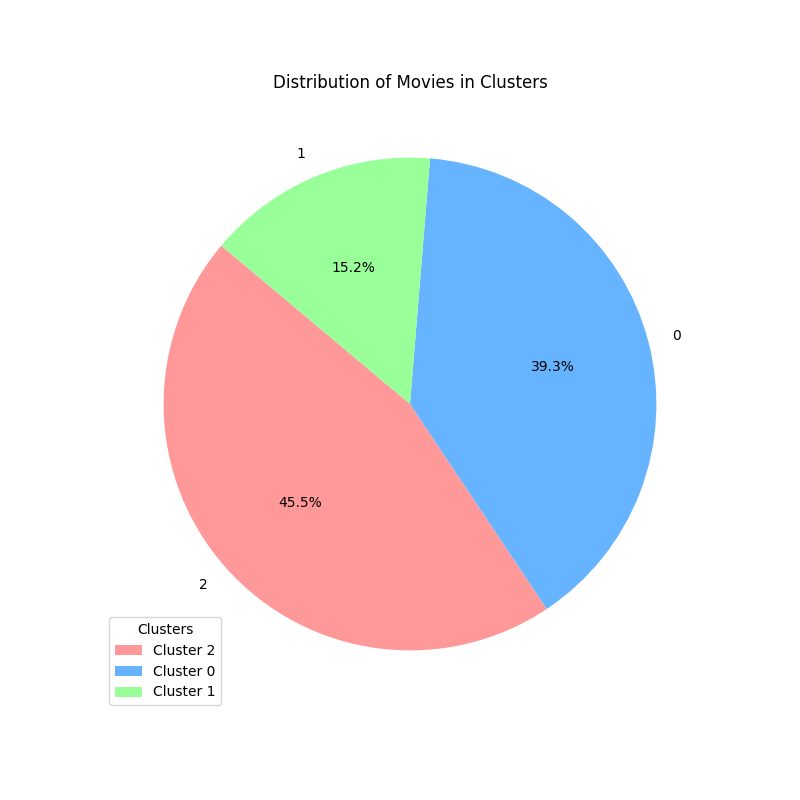
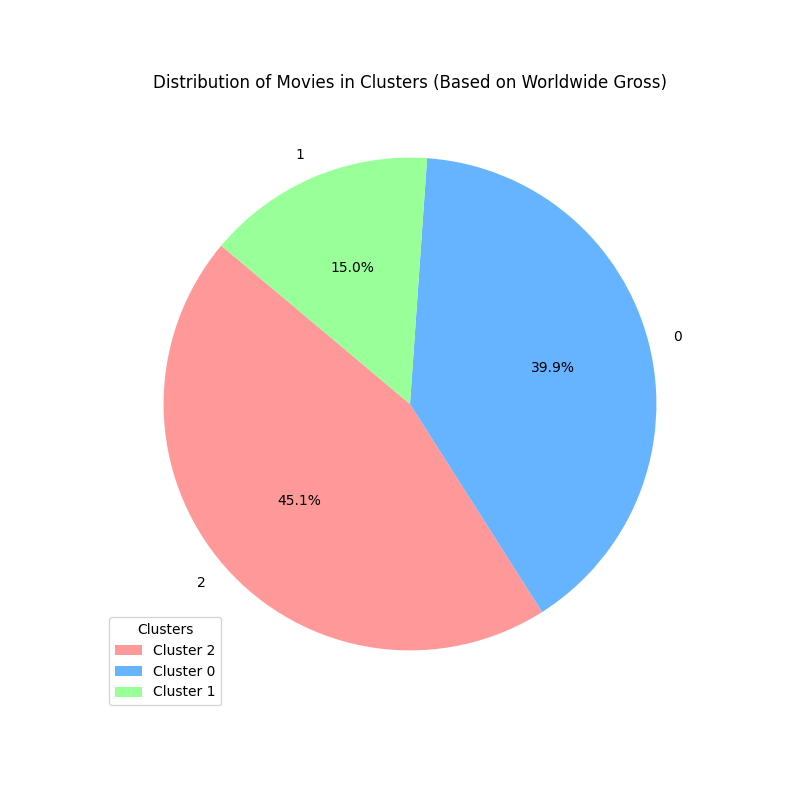
Aggiunta prima bozza dell'oversampling

diff --git a/src/supervised_learning.py b/src/supervised_learning.py
@@ -1,8 +1,8 @@
 import csv
-from matplotlib import pyplot as plt
 import numpy as np
 import pandas as pd
 
+from matplotlib import pyplot as plt
 from lightgbm import LGBMRegressor
 from xgboost import XGBRegressor
 from sklearn.discriminant_analysis import StandardScaler
@@ -11,6 +11,8 @@ from sklearn.pipeline import Pipeline
 from sklearn.tree import DecisionTreeRegressor
 from sklearn.ensemble import RandomForestRegressor
 from sklearn.metrics import make_scorer, mean_squared_error, mean_absolute_error, mean_squared_log_error, r2_score
+
+from oversampling import random_oversampling, smote_oversampling
 
 
 # Load the dataset
@@ -34,7 +36,7 @@ with open('../resources/dataset/Movie_dataset_features.csv', mode='r', encoding=
 # Define the cross-validation strategy and the scorer
 cv = RepeatedKFold(n_splits=3, n_repeats=2, random_state=seed)
 
-def plot_learning_curves(regressionModel, X, y, regressionModelName, logFile):
+def plot_learning_curves(regressionModel, X, y, regressionModelName, logFile, oversamplingName=""):
     # Calculate the learning curve for the given regression model
     train_sizes, train_scores, test_scores = learning_curve(
         regressionModel, 
@@ -80,14 +82,19 @@ def plot_learning_curves(regressionModel, X, y, regressionModelName, logFile):
     plt.xlabel('Training examples')
     plt.ylabel('Mean Error')
     plt.legend(loc='best')
-    plt.title(regressionModelName + ' Learning Curves')
-    plt.savefig('../resources/plots/learning_curves/learning_curve_' + regressionModelName + '.png')
+    plt.title(regressionModelName + oversamplingName + ' Learning Curves')
+    plt.savefig('../resources/plots/learning_curves/learning_curve_' + regressionModelName + oversamplingName + '.png')
 
 
-def train_and_test_model(regressionModel, hyperParameters, regressionModelName, seed=42):
-    with open('../resources/logs/'+ regressionModelName + "_log.txt", mode='w', encoding='utf-8-sig') as logFile:
+def train_and_test_model(regressionModel, hyperParameters, regressionModelName, seed, oversampling_method=None, oversamplingName=""):
+    with open('../resources/logs/log_'+ regressionModelName + oversamplingName + ".txt", mode='w', encoding='utf-8-sig') as logFile:
         X_train, X_test, y_train, y_test = train_test_split(X, y, test_size=0.2, random_state=seed)
         
+        # Apply the oversampling technique if it is provided
+        if oversampling_method:
+            df_train_resampled = oversampling_method(df, target='Log_Worldwide_Gross')
+            X_train = df_train_resampled.drop('Log_Worldwide_Gross', axis=1)
+            y_train = df_train_resampled['Log_Worldwide_Gross']
 
         # Perform the grid search to find the best 
         # hyperparameters of the regression model
@@ -129,7 +136,7 @@ def train_and_test_model(regressionModel, hyperParameters, regressionModelName, 
                 logFile.write("{:<10}{:<25}{:<25}{:<25}\n".format(metric_name, str(mean), str(var), str(std)))
 
         # Plot the learning curve
-        plot_learning_curves(clf, X, y, regressionModelName, logFile)
+        plot_learning_curves(clf, X, y, regressionModelName, logFile, oversamplingName)
 
 
 DecisionTreeHyperparameters = {
@@ -176,7 +183,32 @@ XGBRegressorHyperparameters = {
     'XGBRegressor__random_state': [seed]
 }
 
-train_and_test_model(DecisionTreeRegressor(), DecisionTreeHyperparameters, 'DecisionTree', seed)
-train_and_test_model(RandomForestRegressor(), RandomForestHyperparameters, 'RandomForest', seed)
-train_and_test_model(LGBMRegressor(), LGBMRegressorHyperparameters, 'LGBMRegressor', seed)
-train_and_test_model(XGBRegressor(), XGBRegressorHyperparameters, 'XGBRegressor', seed)
+models_and_hyperparameters = [
+    (DecisionTreeRegressor(), DecisionTreeHyperparameters, 'DecisionTree'),
+    (RandomForestRegressor(), RandomForestHyperparameters, 'RandomForest'),
+    (LGBMRegressor(), LGBMRegressorHyperparameters, 'LGBMRegressor'),
+    (XGBRegressor(), XGBRegressorHyperparameters, 'XGBRegressor')
+]
+
+# Iteration over models without oversampling
+for regressionModel, hyperParameters, regressionModelName in models_and_hyperparameters:
+    train_and_test_model(
+        regressionModel, hyperParameters, 
+        regressionModelName, seed
+    )
+
+# # Iteration over models with random oversampling
+for regressionModel, hyperParameters, regressionModelName in models_and_hyperparameters:
+    train_and_test_model(
+        regressionModel, hyperParameters, regressionModelName, 
+        seed, oversampling_method=random_oversampling, 
+        oversamplingName="_RandomOverSampler"
+    )
+
+# Iteration over models with SMOTE oversampling
+for regressionModel, hyperParameters, regressionModelName in models_and_hyperparameters:
+    train_and_test_model(
+        regressionModel, hyperParameters, regressionModelName, 
+        seed, oversampling_method=smote_oversampling, 
+        oversamplingName="_SMOTE"
+    )

diff --git a/src/features_engineering.py b/src/features_engineering.py
@@ -25,9 +25,11 @@ numeric_columns = [
 for column in numeric_columns:
     df[column] = pd.to_numeric(df[column], errors='coerce')
 
+
 # Transformations on Year (using decade and recent flag)
 df['Decade'] = (df['Year'] // 10) * 10
 df['Recent'] = df['Year'] >= 2010
+
 
 # Transformations on MPAA (categorical feature)
 ratings = [
@@ -38,6 +40,7 @@ ratings = [
 for rating in ratings:
     df[rating] = (df['MPAA'] == rating).astype(int)
 
+
 # Transformations on Runtime (using bins)
 bins = [0, 90, 120, np.inf]
 labels = ['<90', '90-120', '>120']
@@ -45,6 +48,7 @@ df['Runtime_Binned'] = pd.cut(df['Runtime'], bins=bins, labels=labels)
 
 ordinal_mapping = {'<90': 0, '90-120': 1, '>120': 2}
 df['Runtime_Encoded'] = df['Runtime_Binned'].map(ordinal_mapping)
+
 
 # Transformations on Company, Director, Writer, Main Actor
 top_companies = df['Company'].value_counts().nlargest(20).index
@@ -57,6 +61,7 @@ df['Top_Director'] = df['Director'].isin(top_directors).astype(int)
 df['Top_Writer'] = df['Writer'].isin(top_writers).astype(int)
 df['Top_Main_Actor'] = df['Main Actor'].isin(top_actors).astype(int)
 
+
 # Transformations on Budget (using standardization)
 scaler = StandardScaler()
 df['Standardized_Budget'] = scaler.fit_transform(df[['Budget']])
@@ -64,6 +69,7 @@ df['Standardized_Budget'] = scaler.fit_transform(df[['Budget']])
 # Apply Min-Max Scaling to Standardized_Budget to avoid negative values
 min_max_scaler = MinMaxScaler()
 df['Scaled_Standardized_Budget'] = min_max_scaler.fit_transform(df[['Standardized_Budget']])
+
 
 # Transformations on Genre (categorical feature)
 genres = [
@@ -75,8 +81,14 @@ genres = [
 for genre in genres:
     df[genre] = (df['Genre'] == genre).astype(int)
 
+
+# Transformations on True and False values
+# Imposta l'opzione per evitare il downcasting silenzioso
+pd.set_option('future.no_silent_downcasting', True)
+
 # Convert True and False to 1 and 0
-df = df.replace({True: 1, False: 0})
+df = df.replace({True: 1, False: 0}).infer_objects(copy=False)
+
 
 # Transformations on Score and Votes (using log transformation)
 df['Log_Votes'] = np.log1p(df['Votes'])
@@ -94,6 +106,10 @@ df['Worldwide Gross'] = (df['Worldwide Gross'] // 100) * 100
 df['Log_Worldwide_Gross'] = np.log1p(df['Worldwide Gross'])
 
 final_df = df[features + ['Log_Worldwide_Gross']]
+
+# Convert every column to numeric (for oversampling purposes)
+for column in final_df.columns:
+    final_df.loc[:, column] = pd.to_numeric(final_df[column], errors='coerce')
 
 # Save the final dataset to a CSV file
 final_df.to_csv('../resources/dataset/Movie_dataset_features.csv', index=False)

diff --git a/src/oversampling.py b/src/oversampling.py
@@ -1,0 +1,41 @@
+import pandas as pd
+from imblearn.over_sampling import RandomOverSampler, SMOTE
+from sklearn.preprocessing import KBinsDiscretizer
+
+
+def random_oversampling(dataset, target):
+    discretizer = KBinsDiscretizer(n_bins=10, encode='ordinal', strategy='uniform')
+    dataset[target] = discretizer.fit_transform(dataset[[target]]).astype(int)
+    
+    ros = RandomOverSampler(sampling_strategy="not majority", random_state=42)
+
+    X = dataset.drop(target, axis=1)
+    y = dataset[target]
+
+    # Fit the RandomOverSampler object to the dataset
+    X_resampled, y_resampled = ros.fit_resample(X, y)
+
+    # Create a new DataFrame with the resampled data
+    df_resampled = pd.DataFrame(X_resampled, columns=X.columns)
+    df_resampled[target] = y_resampled
+
+    return df_resampled
+
+
+def smote_oversampling(dataset, target):
+    discretizer = KBinsDiscretizer(n_bins=10, encode='ordinal', strategy='uniform')
+    dataset[target] = discretizer.fit_transform(dataset[[target]]).astype(int)
+    
+    smote = SMOTE(sampling_strategy="not majority", random_state=42, k_neighbors=5)
+
+    X = dataset.drop(target, axis=1)
+    y = dataset[target]
+
+    # Fit the SMOTE object to the dataset
+    X_resampled, y_resampled = smote.fit_resample(X, y)
+
+    # Create a new DataFrame with the resampled data
+    df_resampled = pd.DataFrame(X_resampled, columns=X.columns)
+    df_resampled[target] = y_resampled
+
+    return df_resampled

diff --git a/src/unsupervised_learning.py b/src/unsupervised_learning.py
@@ -76,7 +76,7 @@ def visualize_pie_chart(dataFrame):
         startangle=140, 
         colors=['#ff9999','#66b3ff','#99ff99','#ffcc99','#c2c2f0']
     )
-    plt.title('Distribution of Movies in Clusters')
+    plt.title('Distribution of Movies in Clusters (Based on Worldwide Gross)')
     plt.legend(
         wedges, 
         [f'Cluster {i}' for i in cluster_counts.index], 
